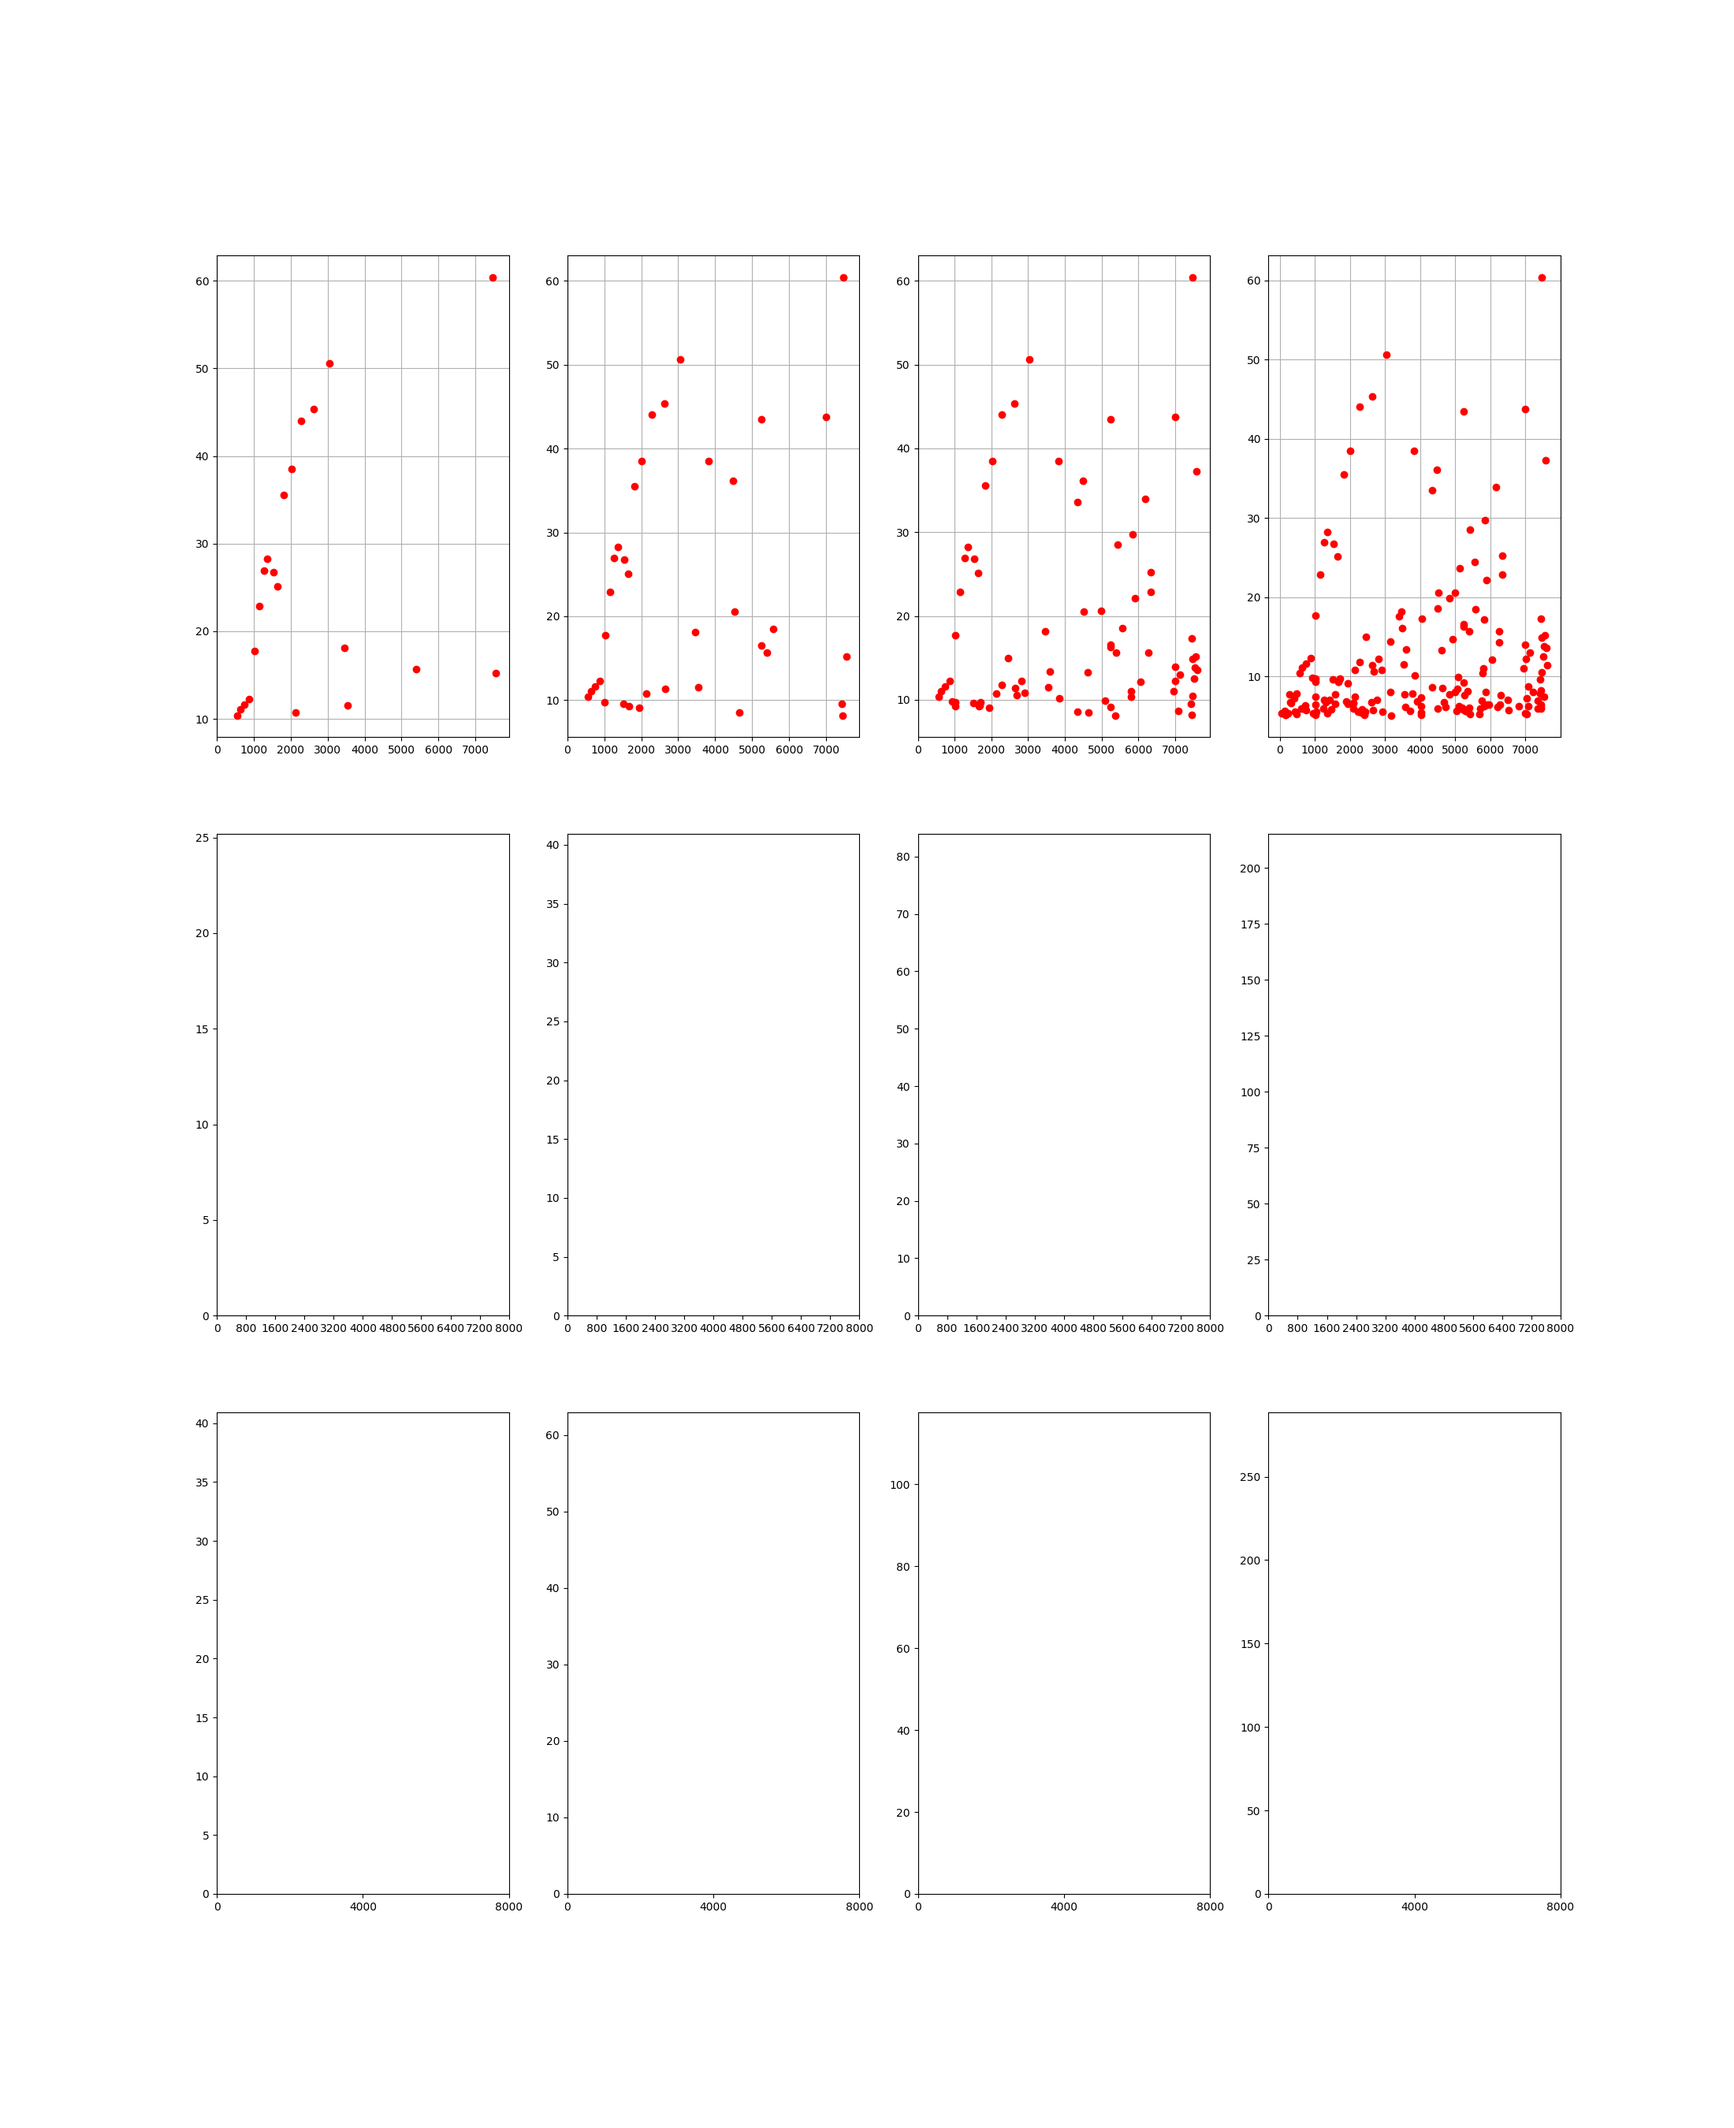
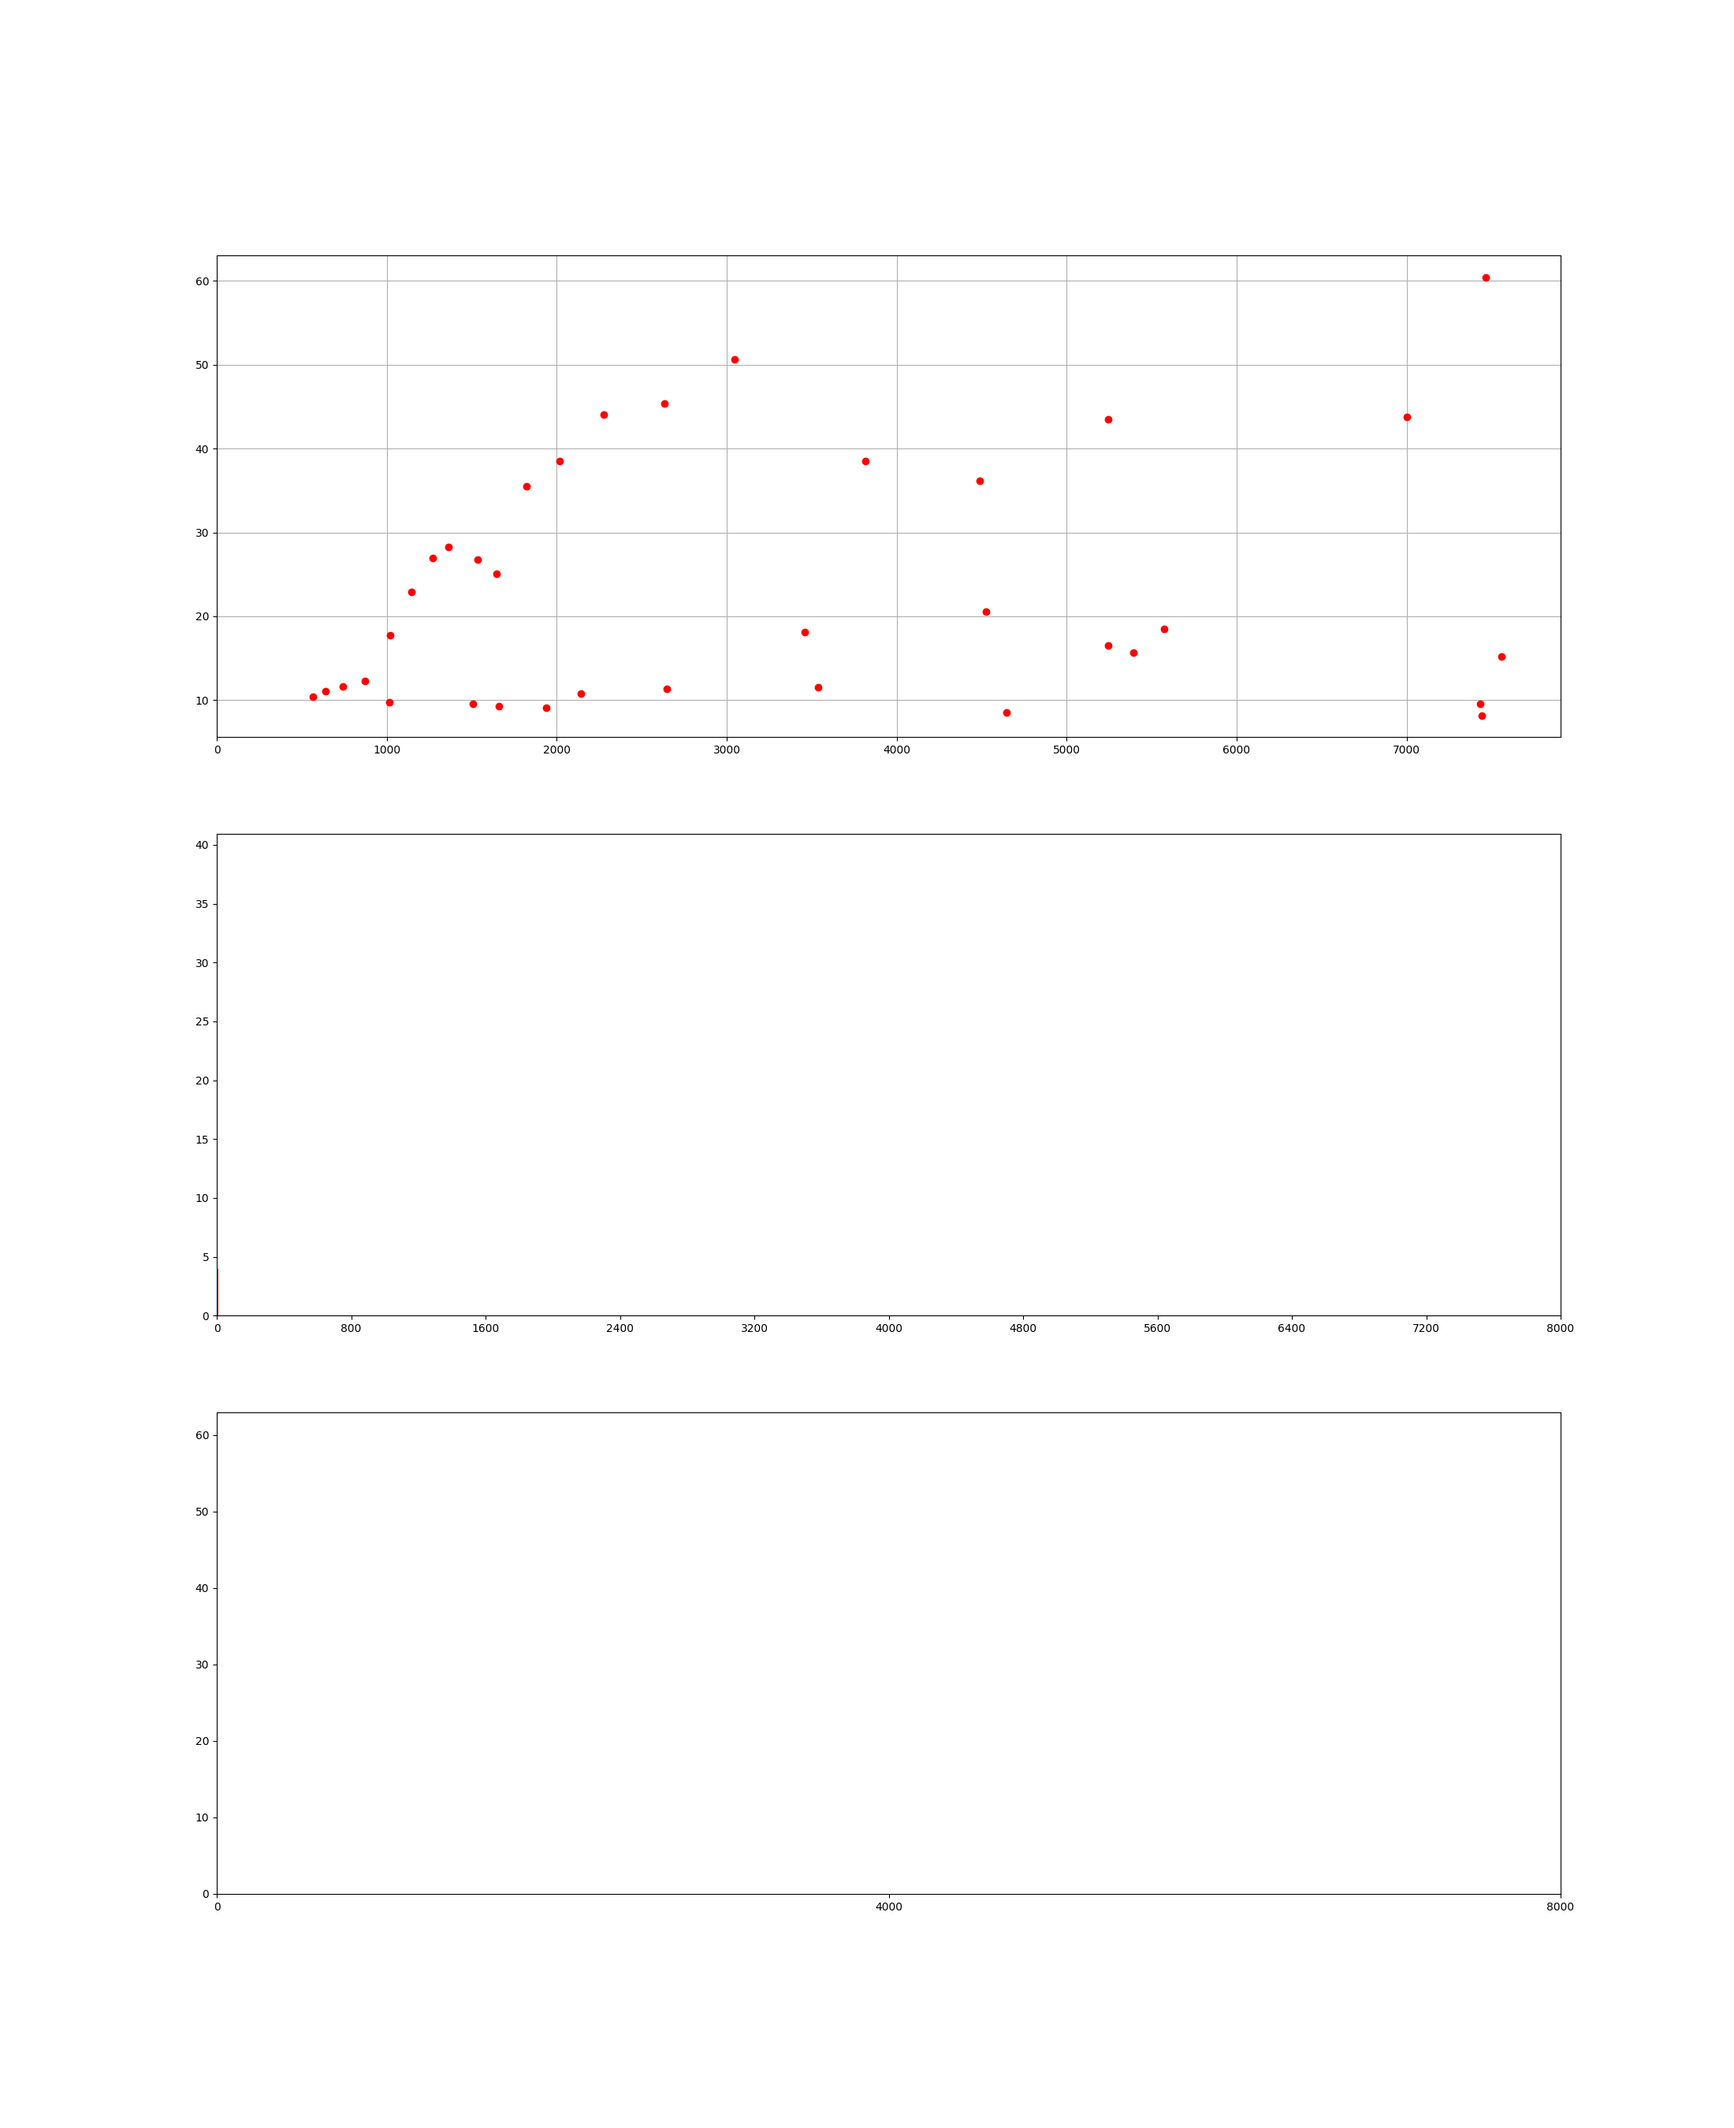
up

diff --git a/returnnTfNetworkLayerPlotter.py b/returnnTfNetworkLayerPlotter.py
@@ -330,14 +330,16 @@ class Plotter(object):
         filterFunctionsToPlot = len(self.plottingConfigs['filterFunctions'])
         numBarPlots = len(self.layer.peaks.barAccuracies)
 
-        fig, axs = plt.subplots(numBarPlots, filterFunctionsToPlot, figsize=self.figSize)
+#        fig, axs = plt.subplots(numBarPlots, filterFunctionsToPlot, figsize=self.figSize)
+        fig, axs = plt.subplots(numBarPlots, figsize=self.figSize)
+        ipdb.set_trace()
+
 
         for epochIdx, epoch in enumerate(self.epochRangeToPlot):
             for filterFunctionIdx, filterFunction in enumerate(self.plottingConfigs['filterFunctions']):
                 peaksToPlot = self.layer.peaks.getPeaks(epochIdx, filterFunction, self.layer.dimInputIdx)
                 for barIdx, barAccuracy in enumerate(self.layer.peaks.barAccuracies):
                     self.plot2DStat(axs, barIdx, filterFunctionIdx, peaksToPlot, barAccuracy)
-
             plotId = '_epoch' + str(epoch) + '_dimIdx' + str(self.layer.dimInputIdx) + '_filterLength=' + str(self.layer.filterSize) + '_stats'
             self.savePlot(plt, plotId)
             self.setPlotTitle(plt, plotId)
@@ -347,16 +349,23 @@ class Plotter(object):
         if(barAccuracy == 1):
             xAxisValues = [ x[0] for x in peaksToPlot ]
             yAxisValues = [ x[1] for x in peaksToPlot ]
-            axs[barIdx][filterFunctionIdx].plot(xAxisValues, yAxisValues, 'ro')
-            axs[barIdx][filterFunctionIdx].grid(b=True)
-            axs[barIdx][filterFunctionIdx].set_xticks(range(0,maxFreq, 1000))
+#            axs[barIdx][filterFunctionIdx].plot(xAxisValues, yAxisValues, 'ro')
+            axs[barIdx].plot(xAxisValues, yAxisValues, 'ro')
+#            axs[barIdx][filterFunctionIdx].grid(b=True)
+            axs[barIdx].grid(b=True)
+#            axs[barIdx][filterFunctionIdx].set_xticks(range(0,maxFreq, 1000))
+            axs[barIdx].set_xticks(range(0,maxFreq, 1000))
         else: 
             intervalLen = int((maxFreq+1)/barAccuracy)
             yAxisValues = self.countElemsInInterval(peaksToPlot, maxFreq, intervalLen)
-#            ipdb.set_trace()
-            xAxisValues = np.arange(len(yAxisValues))
-            axs[barIdx][filterFunctionIdx].bar(xAxisValues, yAxisValues, alpha=0.4, color='b')
-            axs[barIdx][filterFunctionIdx].set_xticks(range(0,maxFreq+1, intervalLen))
+            xAxisValues = range(1,len(yAxisValues)+1)
+            print('barIdx:{}'.format(barIdx))
+            print('filterFunctionIdx:{}'.format(filterFunctionIdx))
+            print(yAxisValues)
+#            axs[barIdx][filterFunctionIdx].bar(xAxisValues, yAxisValues, color='red')
+            axs[barIdx].bar(xAxisValues, yAxisValues, color='red')
+#            axs[barIdx][filterFunctionIdx].set_xticks(range(0,maxFreq+1, intervalLen))
+            axs[barIdx].set_xticks(range(0,maxFreq+1, intervalLen))
 
     def countElemsInInterval(self, peaksToPlot, maxFreq, intervalLen):
         histogram,_ = np.histogram(peaksToPlot, bins=range(0, maxFreq+1, intervalLen))
